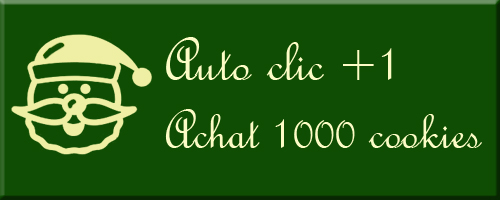
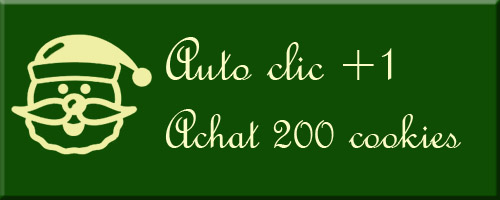
correction image et ajout fonction +10

Changed region(s): [[0.66, 0.57, 0.96, 0.75], [0.54, 0.6, 0.6, 0.75]]

diff --git a/index.html b/index.html
@@ -9,7 +9,7 @@
     <img src="image/cookie.png"  onClick="scoreadd()" alt="image cookie" id="cookie"/>
 	<div id="boutons">
     <img src="image/bouton_grand_mere.jpg" alt="bouton multiplicateur +2" onClick="grannyClick()" id="multiplicateur" width="180px">
-    <img src="image/bouton_elfe.jpg" alt="bouton multiplicateur +10" width="180px">
+    <img src="image/bouton_elfe.jpg" alt="bouton multiplicateur +10" width="180px" onClick="ajout10()">
     <img src="image/bouton_pere_noel.jpg" alt="bouton auto-click" width="180px">
   </div>
     <img src="image/bouton_reset.jpg" type="button" alt="bouton reset" id="reset" onclick="reset()" value="reset"/>

diff --git a/js/js.js b/js/js.js
@@ -47,6 +47,16 @@ else{cookieCreate(highscore);}//sinon on appelle la fonction créer cookie
        alert("Pas assez de points!");
       }
    	}
+     function ajout10() {
+      document.getElementById("clicks").innerHTML = clicks;
+      if (clicks >=100) {
+        i= i+ 10;
+        clicks -= 100;
+      }
+      else {
+        alert("Pas assez de points!");
+      }
+     }
 
 function reset(){
 
